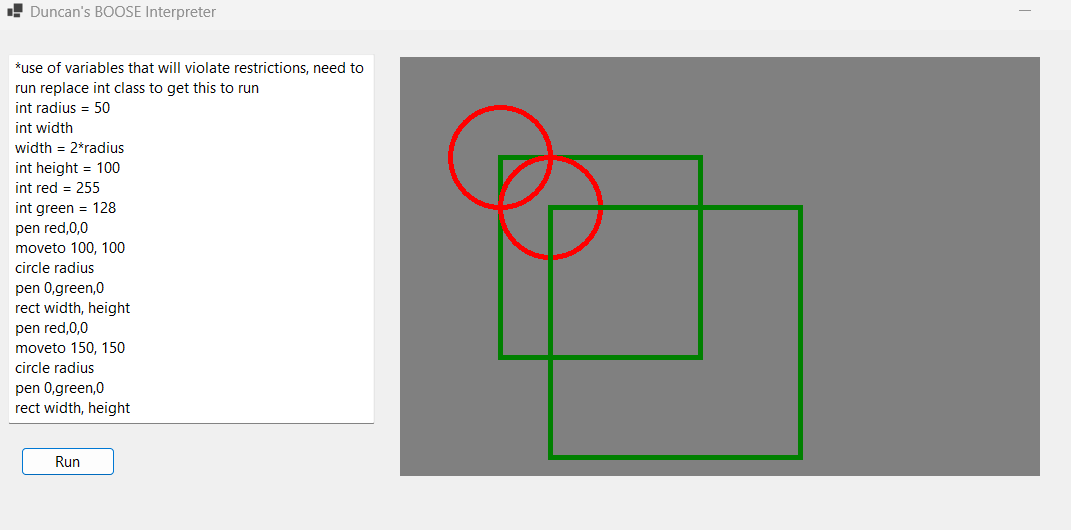
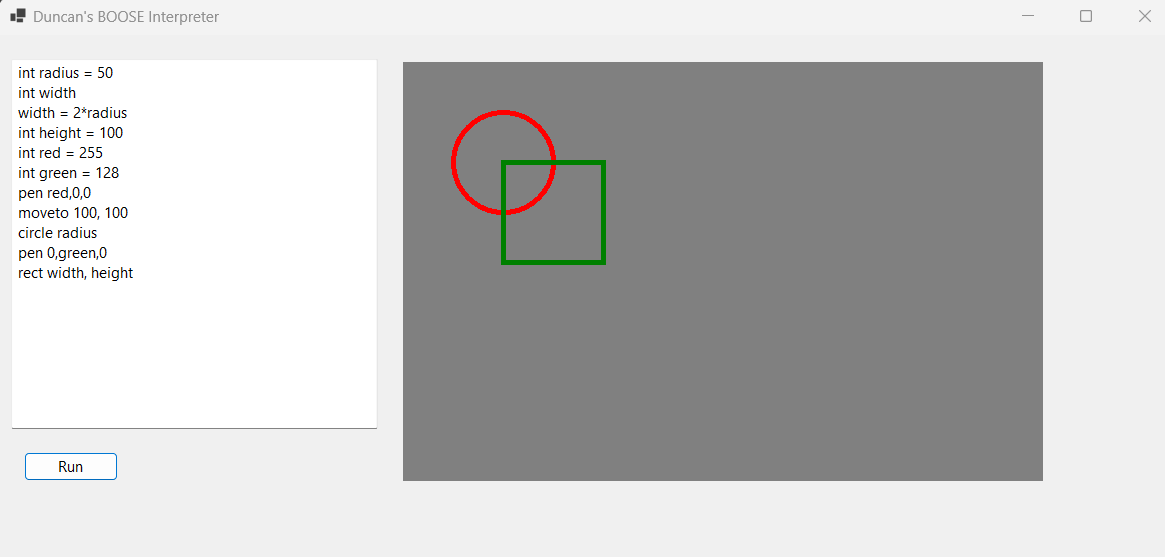
- Added a screenshot to show unrestritedInts.boose working without errors.

Changed region(s): [[0.0, 0.0906, 0.986, 0.9057], [0.0, 0.0, 0.2157, 0.0604]]

diff --git a/ASE Assignment Ashley Hughes/AppReal.cs b/ASE Assignment Ashley Hughes/AppReal.cs
@@ -1,0 +1,52 @@
+using BOOSE;
+using System;
+using System.Collections.Generic;
+using System.Linq;
+using System.Text;
+using System.Threading.Tasks;
+
+namespace ASE_Assignment_Ashley_Hughes
+{
+
+    public class AppReal : Real
+    {
+        private static int a;
+        private double b;
+        public new double Value
+        {
+            get
+            {
+                return b;
+            }
+            set
+            {
+                b = value;
+            }
+        }
+        public AppReal() : base()
+        {
+            // Skip restriction logic by overriding Restrictions
+        }
+
+        public override void Restrictions()
+        {
+            // Do nothing to bypass the restriction logic
+        }
+
+        public override void Compile()
+        {
+     
+            base.Compile();
+            base.Program.AddVariable(this);
+
+            // Additional customization can go here if needed
+        }
+        public override void Execute()
+        {
+            // Retain the existing Execute logic
+            base.Execute();
+
+            // Additional customization can go here if needed
+        }
+    }
+}

diff --git a/ASE Assignment Ashley Hughes/AppInt.cs b/ASE Assignment Ashley Hughes/AppInt.cs
@@ -1,4 +1,6 @@
-namespace BOOSE
+using BOOSE;
+
+namespace ASE_Assignment_Ashley_Hughes
 {
     public class AppInt : Int
     {
@@ -16,11 +18,18 @@
             // This means AppInt will not have the restriction counter logic.
         }
 
-       
+        public override void Compile()
+        {
+            base.Compile();
+            base.Program.AddVariable(this);
+        }
+
         public override void Execute()
         {
             base.Execute();  // Kept the original execute logic from Int
          
         }
+
+        
     }
 }

diff --git a/ASE Assignment Ashley Hughes/AppCommandFactory.cs b/ASE Assignment Ashley Hughes/AppCommandFactory.cs
@@ -24,14 +24,16 @@ namespace ASE_Assignment_Ashley_Hughes
             commandType = commandType.ToLower().Trim();
             if (commandType.Equals("int"))
                 return new AppInt();
-          //  if (commandType.Equals("circle"))
-            //    return new AppCircle();
+            if (commandType.Equals("real"))
+                return new AppReal();
 
 
 
-                return base.MakeCommand(commandType);  // Call the base class's MakeCommand method if no matching command type is found
+            return base.MakeCommand(commandType);  // Call the base class's MakeCommand method if no matching command type is found
 
-          
+            throw new FactoryException(" No such command \'" + commandType + "\'"); // Throw an exception if the command type is unrecognized
+
+
         }
 
     }

diff --git a/ASE Assignment Ashley Hughes/AppCanvas.cs b/ASE Assignment Ashley Hughes/AppCanvas.cs
@@ -95,7 +95,7 @@ namespace ASE_Assignment_Ashley_Hughes
             YCanvasSize = ysize;
             xPos = yPos = 0;
             XCanvasSize = xsize;
-            Pen = new Pen(Color.Black, 2);
+            Pen = new Pen(Color.Red, 3);
             Brush = new SolidBrush(Color.Black);
             g = Graphics.FromImage(bm);
         }
@@ -316,5 +316,6 @@ namespace ASE_Assignment_Ashley_Hughes
                 }
             }
         }
+
     }
 }